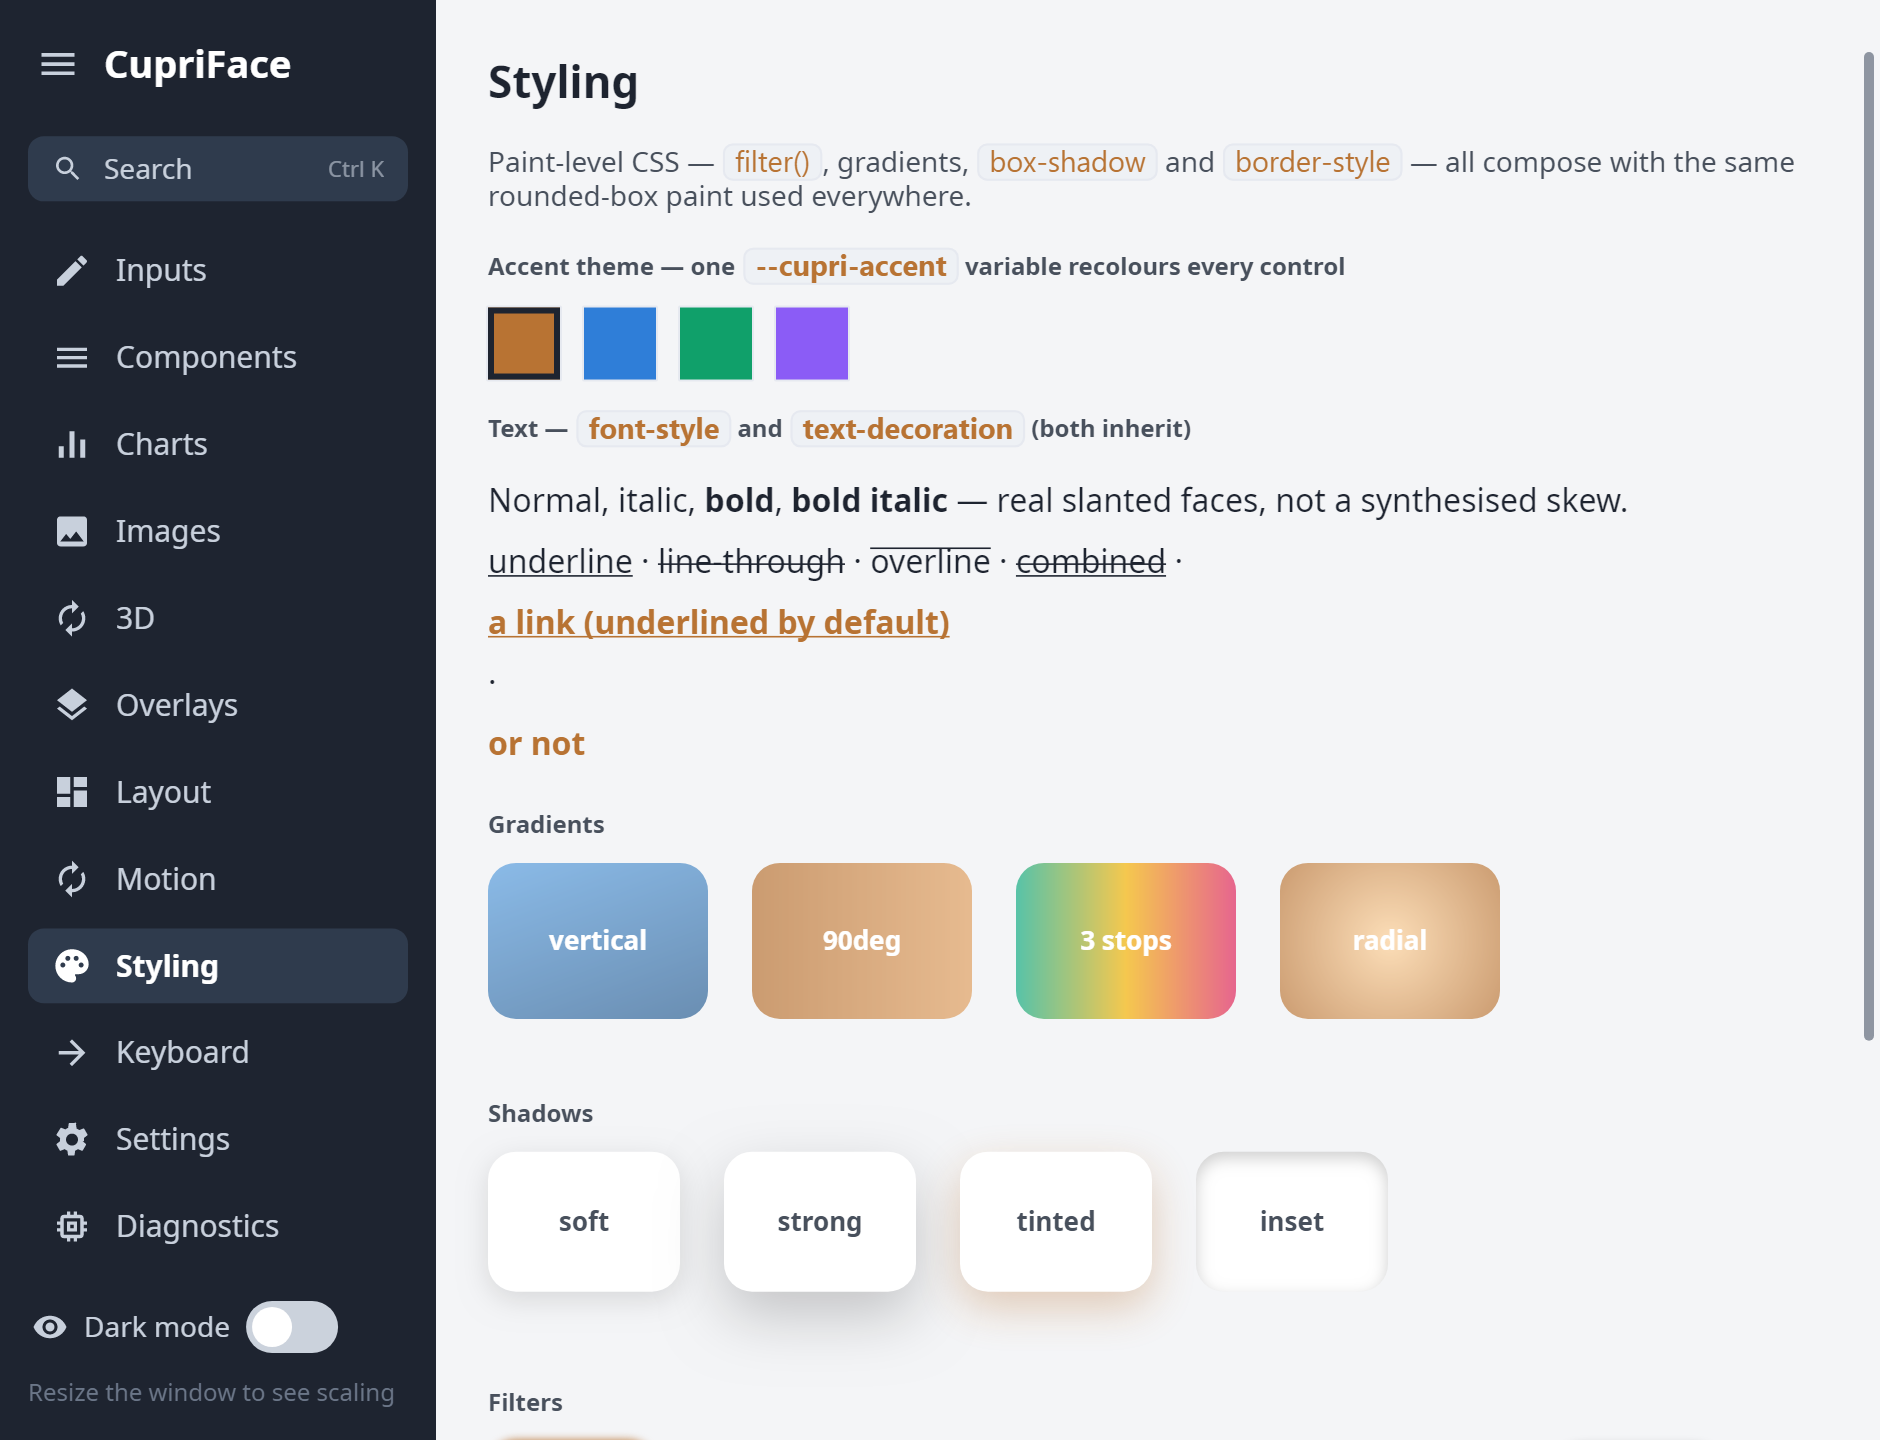
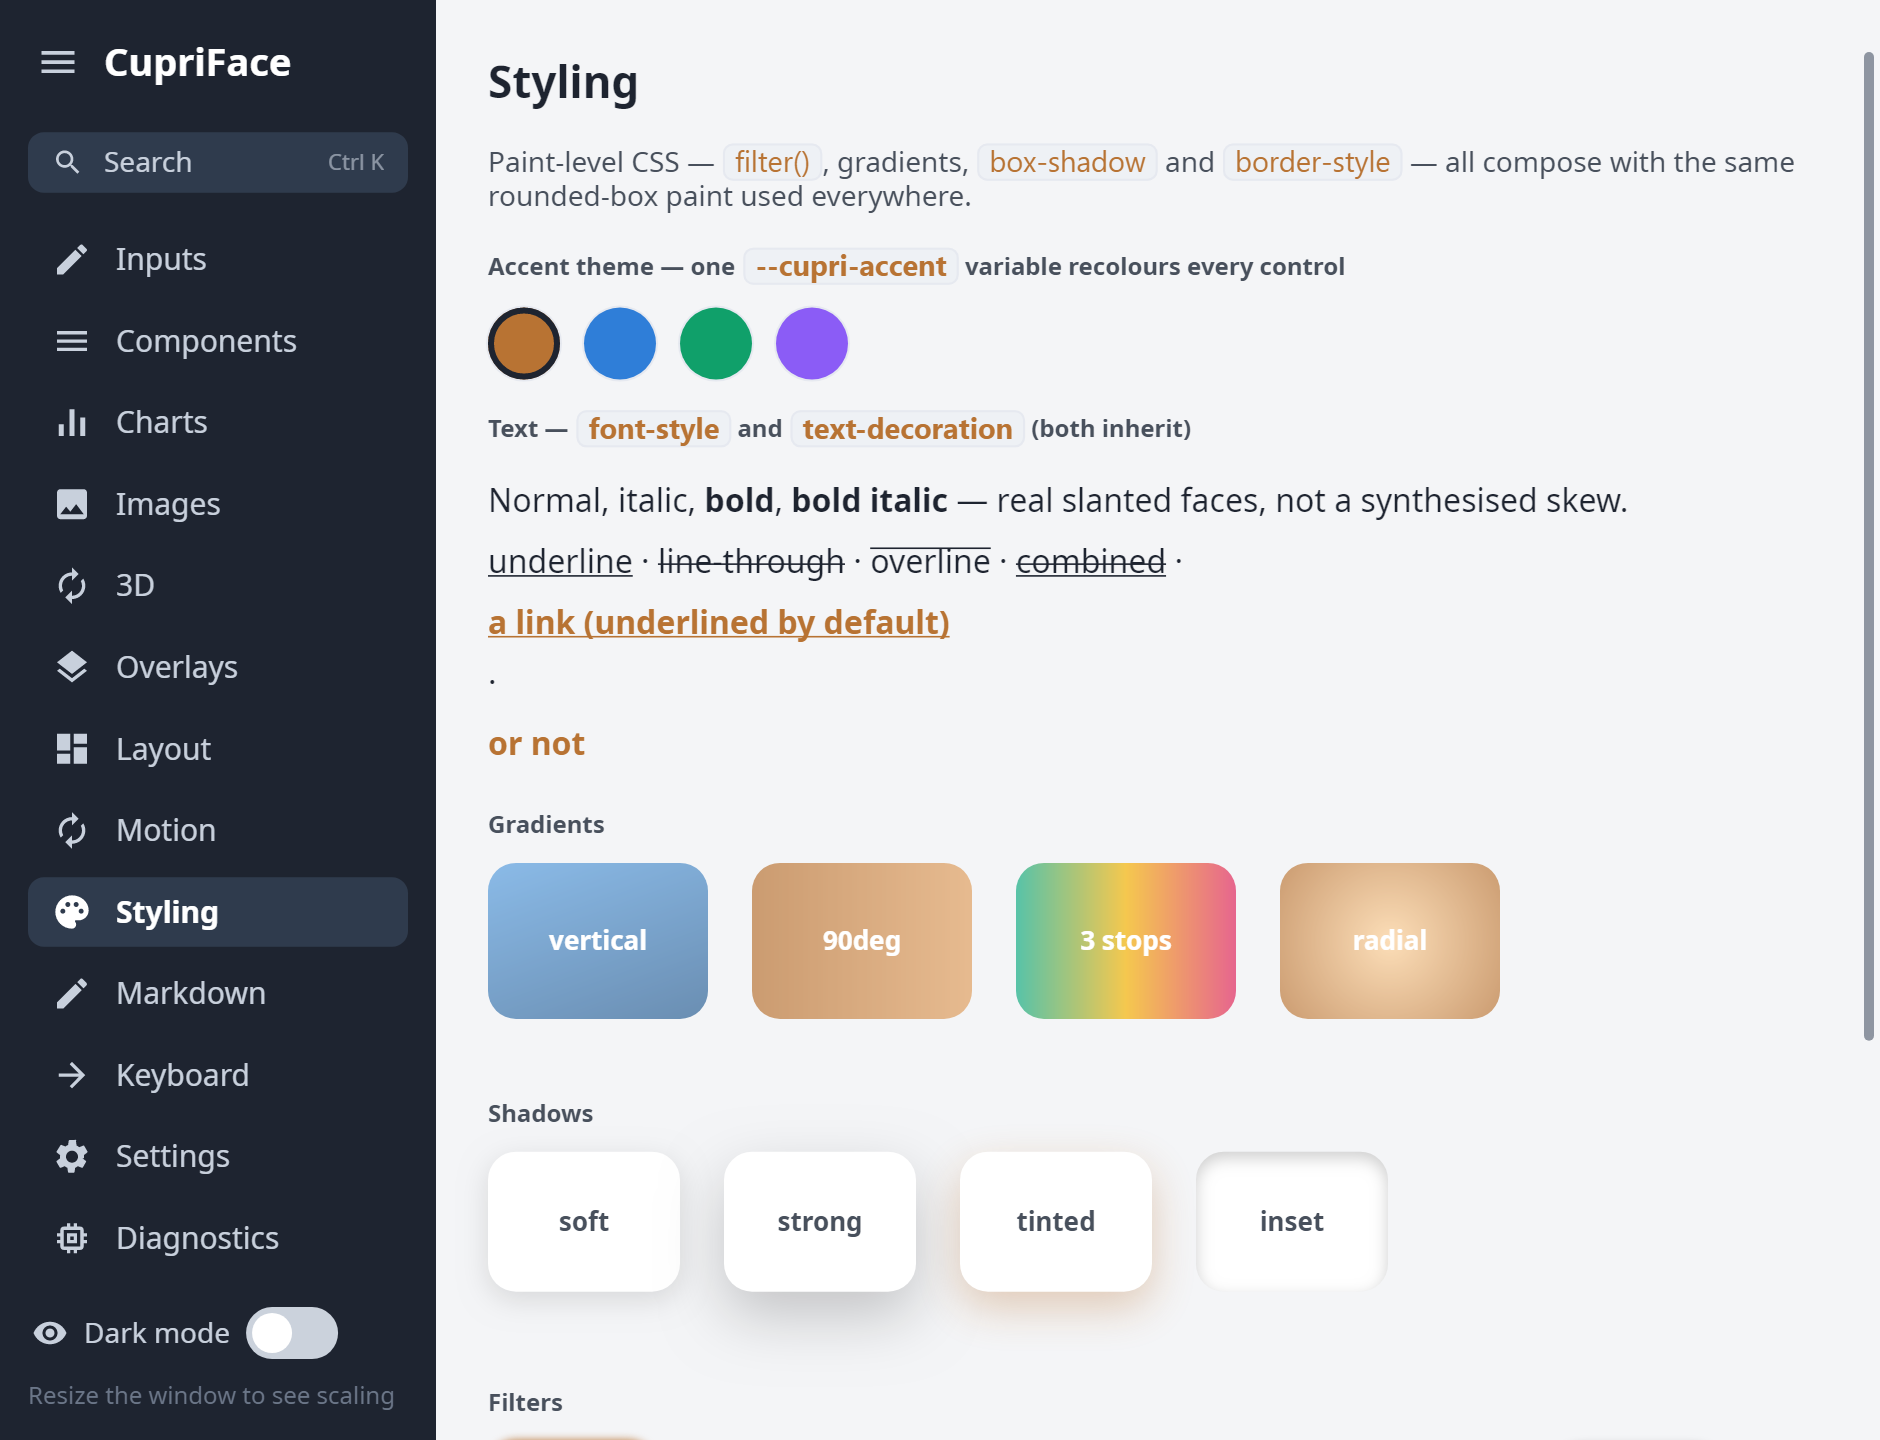
Screenshots that match what the engine now draws
Regenerated all twelve through tools/Screenshots, which is headless by design:
no window, no title bar, no desktop behind it, no file path in a caption.

Three things had drifted, and only one of them is recent.

The committed set predates the Markdown section, so every sidebar was a row
short and everything below Styling sat one row too high. That is why all twelve
images change rather than the two the border-radius fix touches.

The border-radius fix (#162, #163) reaches four things that had been asking for
it and silently not getting it: the bar chart's bars and the Styling page's
accent swatches are visibly rounded now, and the line chart's dots and the
bottom sheet were the same defect.

And the Settings page gained the Adaptive scaling option (#153). Its
description was long enough to squash the radio button - the row is a flex
container and the control was shrinking to make room for the text - so it is
now one short line like the four beside it. Caught by looking at the rendered
image rather than the markup, which is the only place it was visible.

Checked before committing, since these are published in the README:

- No font drift. The body text of every page is pixel-identical, including the
  monospace chips: tools/Screenshots registers the Noto faces the web hosts
  embed, so an image does not depend on what this machine has installed. The
  diffs are confined to the sidebar and to the elements listed above.
[…]

diff --git a/samples/DemoApp/Assets/ShowcaseApp.html b/samples/DemoApp/Assets/ShowcaseApp.html
@@ -616,7 +616,7 @@ doc.RenderToImage(800, 600);
         </div>
         <div class="setrow">
           <cupri-radio group="{{Scaling}}" value="adaptive"></cupri-radio>
-          <div><div class="opt">Adaptive</div><div class="optd">Hybrid above the design size, responsive below it — spends surplus, never crushes. Shrink the window past {{DesignSize}} and this one reflows where Hybrid would shrink the text.</div></div>
+          <div><div class="opt">Adaptive</div><div class="optd">Hybrid above {{DesignSize}}, responsive below it — spends surplus, never crushes.</div></div>
         </div>
       </div>
 
